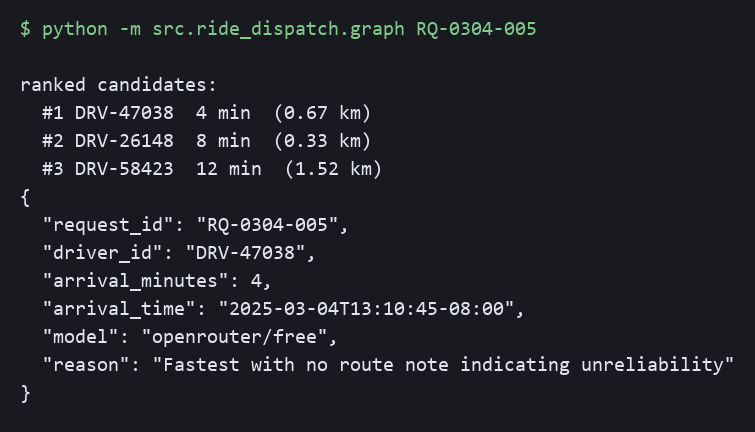
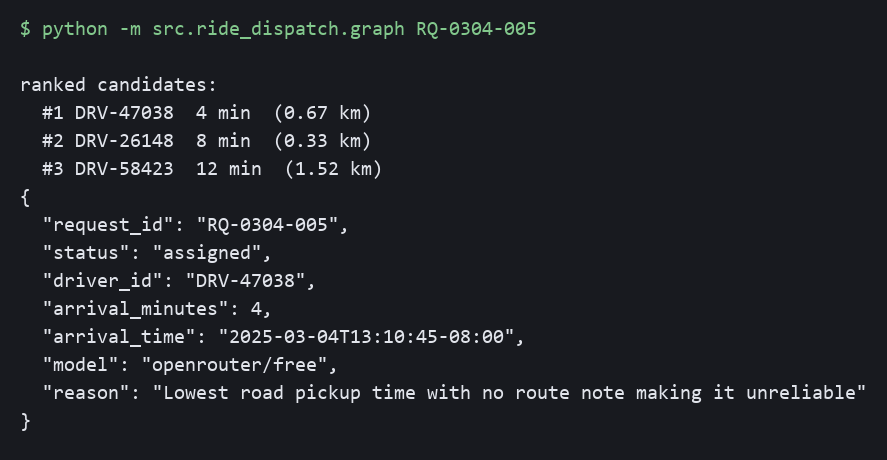
Update README with status field and failure handling

diff --git a/README.md b/README.md
@@ -13,7 +13,7 @@ START -> filter_available -> driver_details -> choose_driver -> END
 
 1. `filter_available` – keeps only drivers with `driver_status == "available"` (`on_trip` and `offline` are dropped).
 2. `driver_details` – ranks the remaining drivers by `road_pickup_minutes` (fastest first).
-3. `choose_driver` – a free OpenRouter model (default `google/gemma-4-31b-it:free`, falls back to `openrouter/free`) picks one driver. Arrival is computed from the data (request time + road minutes), not by the model.
+3. `choose_driver` – a free OpenRouter model (default `google/gemma-4-31b-it:free`, falls back to `openrouter/free`) picks one driver. Arrival is computed from the data (request time + road minutes), not by the model. If the model's answer is unusable, the rank 1 driver is used (see Failure handling).
 
 ## Setup
 
@@ -36,11 +36,33 @@ ranked candidates:
   #3 DRV-58423  12 min  (1.52 km)
 {
   "request_id": "RQ-0304-005",
+  "status": "assigned",
   "driver_id": "DRV-47038",
   "arrival_minutes": 4,
   "arrival_time": "2025-03-04T13:10:45-08:00",
   "model": "openrouter/free",
-  "reason": "Fastest with no route note indicating unreliability"
+  "reason": "Lowest road pickup time with no route note making it unreliable"
+}
+```
+
+## Failure handling
+
+The graph never crashes on a bad model reply or an empty candidate list. Every result has a `status`:
+
+| `status` | When | Result |
+|---|---|---|
+| `assigned` | Model picked a valid candidate | Model's pick; arrival = request time + that driver's road minutes |
+| `assigned_fallback` | Model returned null / "nobody", an ID not on the list, malformed JSON, or the API failed | Rank 1 driver (fastest road pickup); `reason` says why, and `model_said` shows what the model answered |
+| `no_driver_available` | No candidate is `available` | `"message": "No drivers available"`, `driver_id`, `arrival_minutes` and `arrival_time` are `null`; the model is not called |
+
+```json
+{
+  "request_id": "RQ-0304-005",
+  "status": "no_driver_available",
+  "message": "No drivers available",
+  "driver_id": null,
+  "arrival_minutes": null,
+  "arrival_time": null
 }
 ```
 
